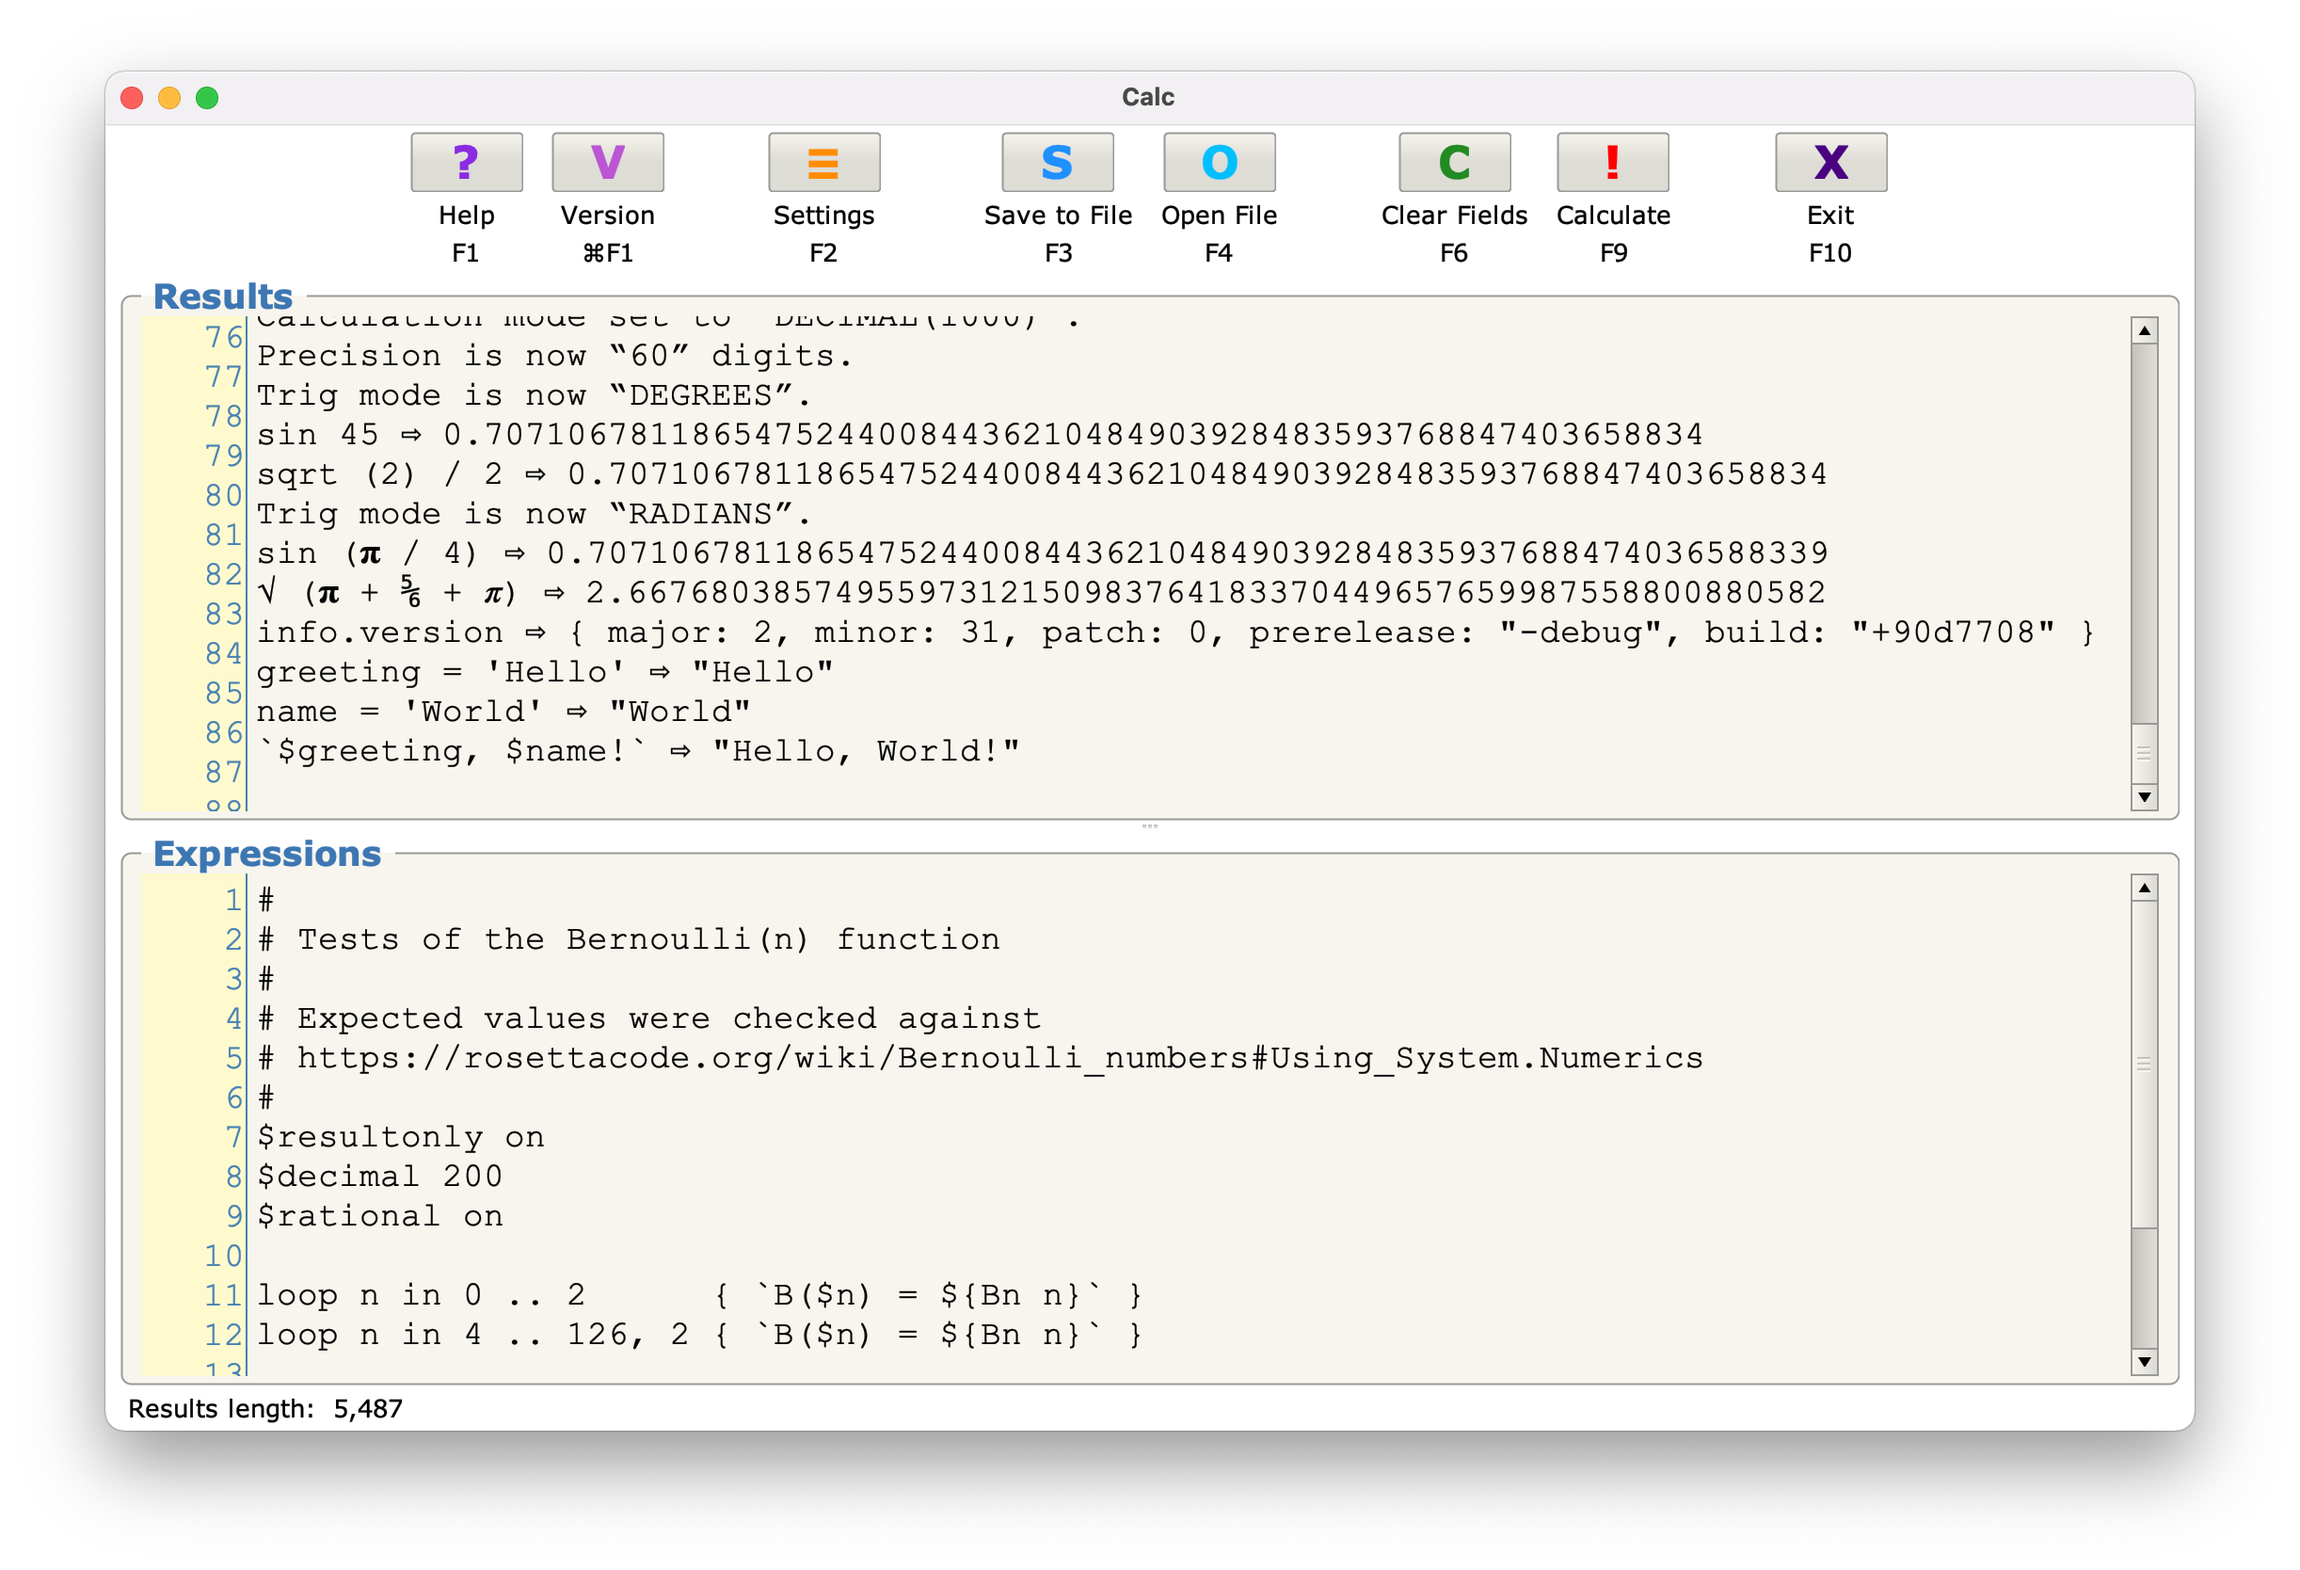
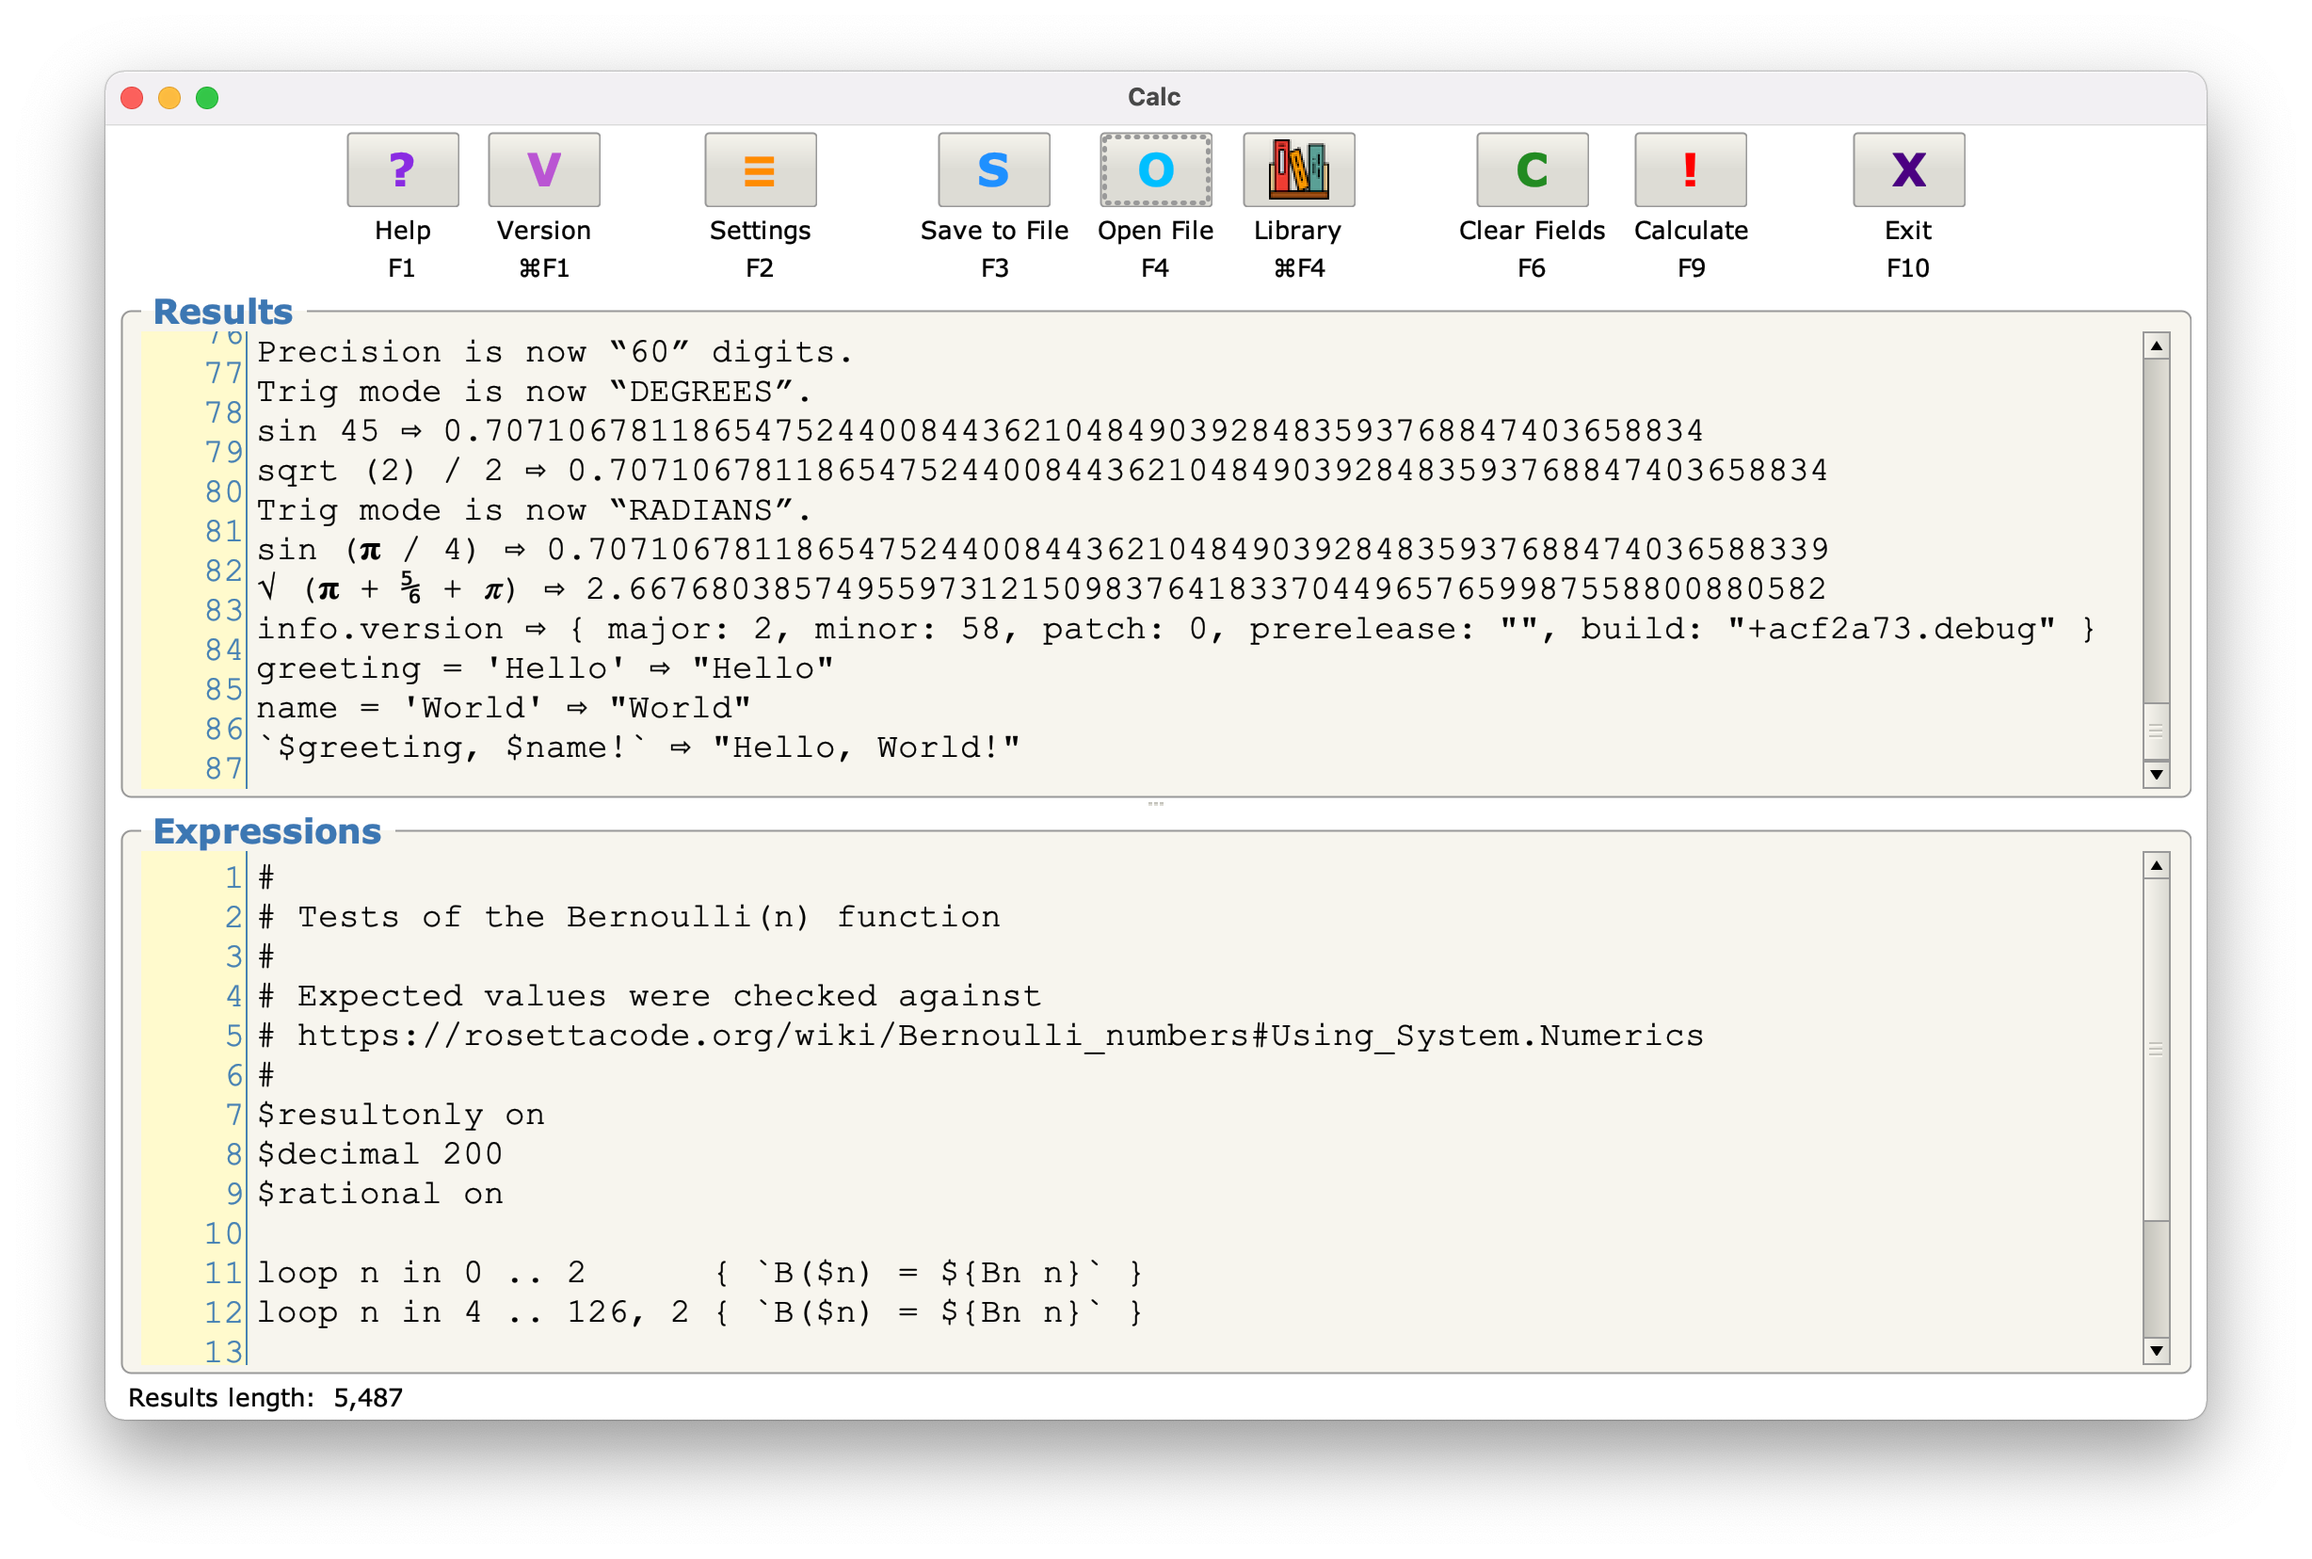
#722: New "Library" button in Calc GUI.

diff --git a/java/info/rlwhitcomb/calc/Calc.java b/java/info/rlwhitcomb/calc/Calc.java
@@ -1,7 +1,7 @@
 /*
  * The MIT License (MIT)
  *
- * Copyright (c) 2020-2024 Roger L. Whitcomb.
+ * Copyright (c) 2020-2025 Roger L. Whitcomb.
  *
  * Permission is hereby granted, free of charge, to any person obtaining a copy
  * of this software and associated documentation files (the "Software"), to deal
@@ -355,6 +355,8 @@
  *	    #672: New command line option for proper fractions.
  *	13-May-2024 (rlwhitcomb)
  *	    Rename "setVariable" method to "setGlobalVariable".
+ *	01-Jun-2025 (rlwhitcomb)
+ *	    #722: New "Library" GUI button.
  */
 package info.rlwhitcomb.calc;
 
@@ -476,6 +478,7 @@ public class Calc
 		SETTINGS ("settings",  SettingsAction.class),
 		SAVE     ("save",      SaveAction.class),
 		OPEN     ("open",      OpenAction.class),
+		LIBRARY  ("library",   LibraryAction.class),
 		CLEAR    ("clear",     ClearAction.class),
 		CALCULATE("calculate", CalculateAction.class),
 		EXIT     ("exit",      ExitAction.class),
@@ -588,6 +591,8 @@ public class Calc
 	@BXML private Label outputSizeLabel;
 	@BXML private PushButton versionButton;
 	@BXML private Label versionKeyLabel;
+	@BXML private PushButton libraryButton;
+	@BXML private Label libraryKeyLabel;
 	@BXML private Prompt versionPrompt;
 	@BXML private Label versionText;
 	@BXML private Label implementationText;
@@ -1139,6 +1144,12 @@ public class Calc
 		versionButton.setTooltipText(Intl.formatString("versionTip", key));
 		versionKeyLabel.setText(key);
 
+		KeyStroke libraryKey = KeyStroke.decode("Cmd-F4");
+		key = libraryKey.toString();
+
+		libraryButton.setTooltipText(Intl.formatString("libraryTip", key));
+		libraryKeyLabel.setText(key);
+
 		KeyStroke enterKey = KeyStroke.decode("Enter");
 		KeyStroke cmdEnterKey = KeyStroke.decode("Cmd-Enter");
 
@@ -1211,7 +1222,7 @@ public class Calc
 		}
 
 		// Try to read and process any given libraries before doing anything else
-		readAndProcessLibraries(visitor, errorStrategy);
+		readAndProcessLibraries(visitor, libraryNames, errorStrategy);
 
 		mainWindow.open(display);
 		requestFocus(inputTextPane);
@@ -1681,6 +1692,48 @@ public class Calc
 		}
 	}
 
+	private class LibraryAction extends Action
+	{
+		@Override
+		public void perform(Component source) {
+		    if (inputDirectory == null) {
+			if (rootDirectory == null) {
+			    rootDirectory = new File("./");
+			}
+		    }
+		    else if (rootDirectory == null) {
+			rootDirectory = inputDirectory;
+		    }
+		    try {
+			rootDirectory = rootDirectory.getCanonicalFile();
+		    }
+		    catch (IOException ioe) {
+			// just leave root directory as-is
+		    }
+		    final FileBrowserSheet browser =
+			new FileBrowserSheet(FileBrowserSheet.Mode.OPEN_MULTIPLE, rootDirectory.getPath());
+		    browser.open(mainWindow, sheet -> {
+			if (!sheet.getResult())
+			    return;
+			try {
+			    Sequence<File> selectedFiles = browser.getSelectedFiles();
+			    rootDirectory = browser.getRootDirectory();
+			    List<String> names = new ArrayList<>(selectedFiles.getLength());
+			    for (int i = 0; i < selectedFiles.getLength(); i++) {
+				File f = selectedFiles.get(i);
+				names.add(f.getPath());
+			    }
+			    readAndProcessLibraries(visitor, names, errorStrategy);
+			}
+			catch (IOException ioe) {
+			    Alert.alert(MessageType.ERROR, Exceptions.toString(ioe), ioe.getClass().getSimpleName(), null, mainWindow, null);
+			}
+			characterListener.enableActions();
+			requestFocus(inputTextPane);
+		    });
+		}
+	}
+
 	private class ClearAction extends Action
 	{
 		@Override
@@ -2109,13 +2162,13 @@ public class Calc
 	    return returnValue;
 	}
 
-	private static void readAndProcessLibraries(CalcObjectVisitor visitor, BailErrorStrategy errorStrategy)
+	private static void readAndProcessLibraries(CalcObjectVisitor visitor, List<String> names, BailErrorStrategy errorStrategy)
 		throws IOException
 	{
-	    if (libraryNames != null) {
+	    if (names != null) {
 		initialLibraryLoad = true;
 		try {
-		    for (String libraryName : libraryNames) {
+		    for (String libraryName : names) {
 			process(CharStreams.fromString(getFileContents(libraryName)), visitor, errorStrategy, true, false);
 		    }
 		}
@@ -2741,7 +2794,7 @@ public class Calc
 		    // Try to read and process any given libraries before doing anything else
 		    // But save the "-inputdir" setting and restore once we're done
 		    File savedInputDirectory = inputDirectory;
-		    readAndProcessLibraries(visitor, errorStrategy);
+		    readAndProcessLibraries(visitor, libraryNames, errorStrategy);
 		    inputDirectory = savedInputDirectory;
 
 		    // If no input arguments were given, go into "REPL" mode, reading
